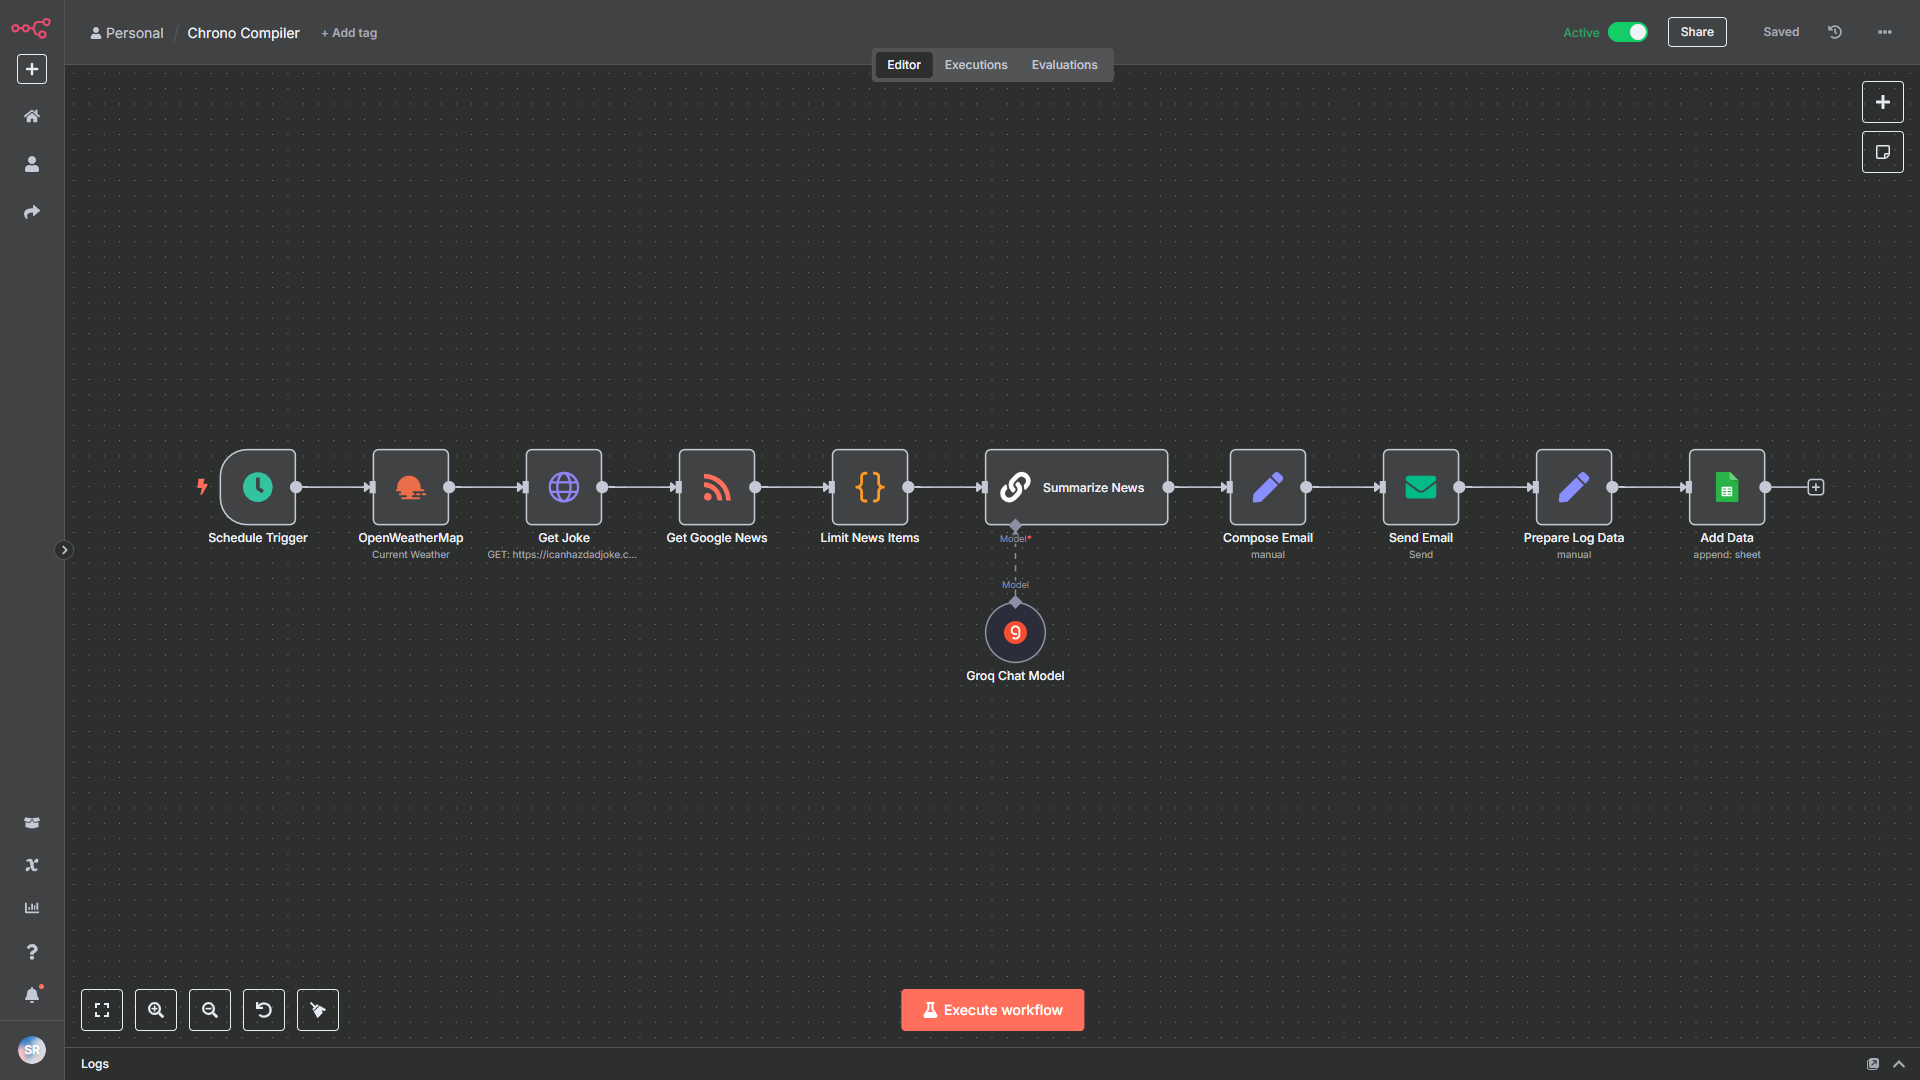
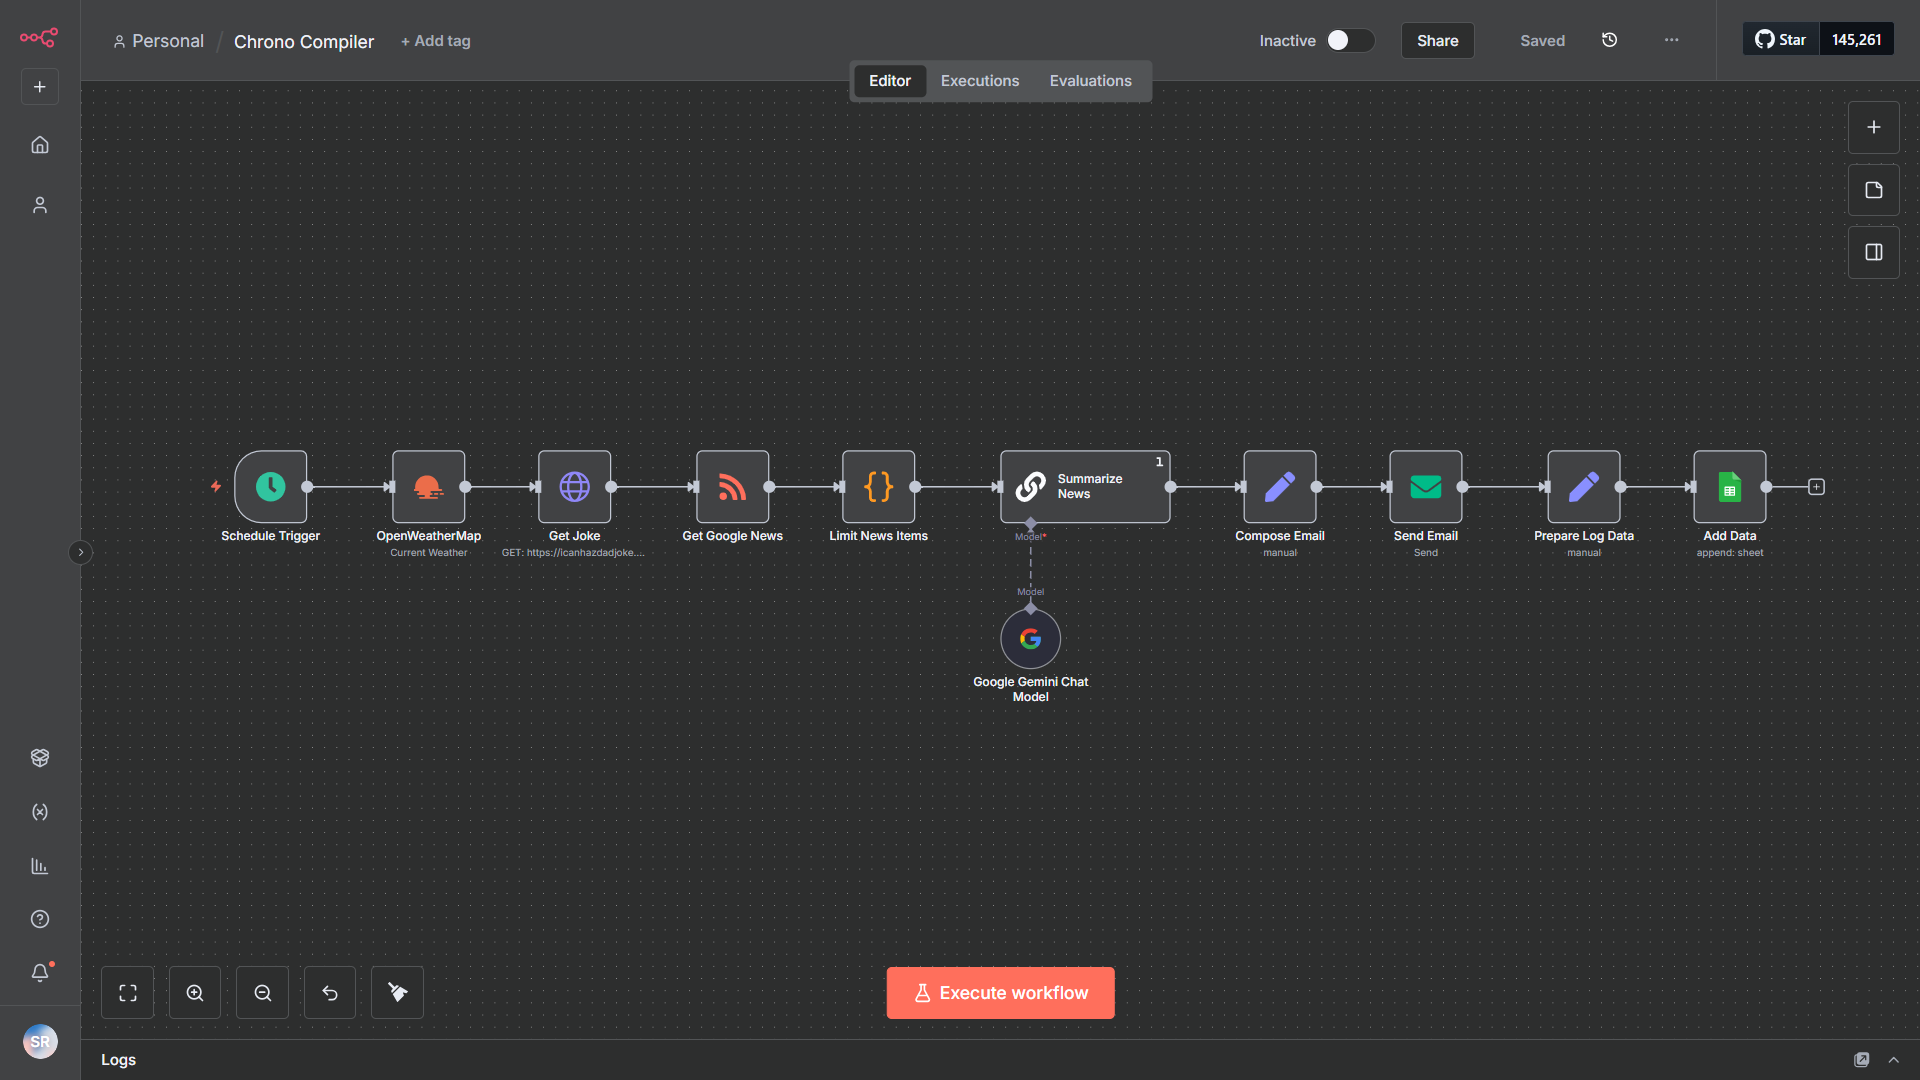
Replaced GROQ API with GEMENI API

diff --git a/README.md b/README.md
@@ -2,8 +2,8 @@
 
 **Chrono Compiler** is an AI-powered, automated email digest built with [n8n](https://n8n.io). It compiles a personalized, hourly email that includes:
 
-* 🌦️ Real-time **weather updates**
-* 😂 A random **joke**
+* 🌦️ Real-time **Weather Updates**
+* 😂 A random **Joke**
 * 📰 An **AI-generated news summary** from top headlines
 * 📗 **Activity logs** stored in Google Sheets
 
@@ -23,11 +23,11 @@ Here is a sample of the final email generated by the workflow:
 
 | Feature                  | Description                                                                |
 | ------------------------ | -------------------------------------------------------------------------- |
-| 🌦️ **Hourly Weather**   | Fetches real-time weather data from OpenWeatherMap.                        |
-| 😂 **Joke of the Hour**  | Pulls a light-hearted joke from icanhazdadjoke API.                        |
-| 📰 **AI News Summary**   | Extracts trending headlines via Google News RSS and summarizes using Groq. |
-| 📧 **HTML Email Digest** | Formats the content and sends a professional-looking email using Gmail.    |
-| 📗 **Execution Logging** | Logs each workflow run in Google Sheets for tracking.                      |
+| 🌦️ **Hourly Weather**    | Fetches real-time weather data from **OpenWeatherMap**.                        |
+| 😂 **Joke of the Hour**  | Pulls a light-hearted joke from **icanhazdadjoke API**.                        |
+| 📰 **AI News Summary**   | Extracts trending headlines via **Google News** RSS and summarizes using **Gemeni 2.5 Flash**. |
+| 📧 **HTML Email Digest** | Formats the content and sends a professional-looking email using **Gmail**.    |
+| 📗 **Execution Logging** | Logs each workflow run in **Google Sheets** for tracking.                      |
 
 ---
 
@@ -48,7 +48,7 @@ Here is a visual overview of the n8n workflow:
 | **OpenWeatherMap API** | Fetch weather data                    |
 | **icanhazdadjoke API** | Retrieve random jokes                 |
 | **Google News (RSS)**  | Pull trending news headlines          |
-| **Groq API**           | Summarize news using LLM              |
+| **Gemeni API**         | Summarize news using LLM              |
 | **Gmail SMTP**         | Send email digests                    |
 | **Google Sheets**      | Log and store workflow execution data |
 
@@ -69,7 +69,7 @@ Copy from `.env.example` and add your API keys and credentials:
 
 ```
 OPENWEATHERMAP_API_KEY=your_openweathermap_key
-GROQ_API_KEY=your_groq_key
+GEMENI_API_KEY=your_gemeni_key
 GMAIL_USER=your_email
 ...
 ```
@@ -94,11 +94,11 @@ This starts n8n locally at: [http://localhost:5678](http://localhost:5678)
 
 In **n8n > Credentials**:
 
-* Add credentials for OpenWeatherMap, Groq, Gmail, and Google Sheets
+* Add credentials for OpenWeatherMap, Gemeni, Gmail, and Google Sheets
 * Use environment variables with expressions:
 
 ```js
-{{ $env.GROQ_API_KEY }}
+{{ $env.GEMENI_API_KEY }}
 {{ $env.OPENWEATHERMAP_API_KEY }}
 ```
 
@@ -115,8 +115,6 @@ In **n8n > Credentials**:
 
 ## 👨💻 Author
 
-Made with 💡 by **[Saptarshi Roy](https://github.com/saptarshiroy39)**
-
-Feel free to fork, star, or submit a PR if you’d like to improve this project!
+Made with **[n8n](https://n8n.io/)** by **[Saptarshi Roy](https://github.com/saptarshiroy39)**
 
 ---